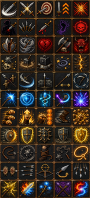
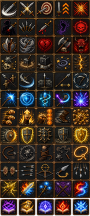
Mage talent rework for the tome; Battlemage talents for the ray and aura; tome skills: Spell Weaving, Quickened Cast, Arcane Mastery
Claude-Session: https://claude.ai/code/session_01JDuagXZUm92QiRxDizBnyo

diff --git a/core/src/main/java/com/shatteredpixel/shatteredpixeldungeon/items/weapon/melee/MagicTome.java b/core/src/main/java/com/shatteredpixel/shatteredpixeldungeon/items/weapon/melee/MagicTome.java
@@ -218,24 +218,24 @@ public class MagicTome extends MeleeWeapon {
 			ArrayList<Spell> unlearned = new ArrayList<>();
 			for (Spell s : LEARNABLE) if (main.ranks[s.ordinal()] == 0) unlearned.add(s);
 			ArrayList<Spell> upgradable = new ArrayList<>();
-			for (Spell s : Spell.values()) if (main.ranks[s.ordinal()] > 0 && main.ranks[s.ordinal()] < MAX_RANK) upgradable.add(s);
+			for (Spell s : Spell.values()) if (!s.battlemage() && main.ranks[s.ordinal()] > 0 && main.ranks[s.ordinal()] < MAX_RANK) upgradable.add(s);
 			if (unlearned.isEmpty() && upgradable.isEmpty()) {
 				GLog.w(Messages.get(MagicTome.class, "decipher_nothing"));
 				return;
 			}
 			detach(hero.belongings.backpack);
-			if (!unlearned.isEmpty() && (upgradable.isEmpty() || Random.Int(2) == 0)) {
-				Spell s = Random.element(unlearned);
-				main.ranks[s.ordinal()] = 1;
-				GLog.p(Messages.get(MagicTome.class, "learned", s.title()));
-			} else {
-				Spell s = Random.element(upgradable);
-				main.ranks[s.ordinal()]++;
-				GLog.p(Messages.get(MagicTome.class, "improved", s.title(), main.ranks[s.ordinal()]));
+			main.learnOrImprove(unlearned, upgradable);
+			//tome binding: 50% / 100% chance the spare tome teaches a second lesson
+			if (hero.pointsInTalent(Talent.WAND_PRESERVATION) > 0 && Random.Int(2) < hero.pointsInTalent(Talent.WAND_PRESERVATION)) {
+				unlearned.clear(); upgradable.clear();
+				for (Spell s : LEARNABLE) if (main.ranks[s.ordinal()] == 0) unlearned.add(s);
+				for (Spell s : Spell.values()) if (!s.battlemage() && main.ranks[s.ordinal()] > 0 && main.ranks[s.ordinal()] < MAX_RANK) upgradable.add(s);
+				if (!unlearned.isEmpty() || !upgradable.isEmpty()) main.learnOrImprove(unlearned, upgradable);
 			}
 			hero.sprite.operate(hero.pos);
 			Sample.INSTANCE.play(Assets.Sounds.READ);
-			hero.spendAndNext(5f);
+			//scholar's intuition: 5 turns, 3 at +1, 1 at +2
+			hero.spendAndNext(5f - 2f * hero.pointsInTalent(Talent.SCHOLARS_INTUITION));
 		} else {
 			detach(hero.belongings.backpack);
 			Proficiency.grantLevel(hero.heroClass, Proficiency.Family.WANDS);
@@ -247,6 +247,18 @@ public class MagicTome extends MeleeWeapon {
 		updateQuickslot();
 	}
 
+	private void learnOrImprove(ArrayList<Spell> unlearned, ArrayList<Spell> upgradable){
+		if (!unlearned.isEmpty() && (upgradable.isEmpty() || Random.Int(2) == 0)) {
+			Spell s = Random.element(unlearned);
+			ranks[s.ordinal()] = 1;
+			GLog.p(Messages.get(MagicTome.class, "learned", s.title()));
+		} else {
+			Spell s = Random.element(upgradable);
+			ranks[s.ordinal()]++;
+			GLog.p(Messages.get(MagicTome.class, "improved", s.title(), ranks[s.ordinal()]));
+		}
+	}
+
 	// ---- spell numbers ----
 
 	public int rank(Spell s){
@@ -255,7 +267,11 @@ public class MagicTome extends MeleeWeapon {
 
 	//spell power: the tome's level plus extra spell ranks
 	public int power(Spell s){
-		return Math.max(0, buffedLvl()) + Math.max(0, rank(s) - 1);
+		int p = Math.max(0, buffedLvl()) + Math.max(0, rank(s) - 1);
+		//desperate power: +1 / +2 while below half health
+		Hero h = Dungeon.hero;
+		if (h != null && h.HP * 2 < h.HT) p += h.pointsInTalent(Talent.DESPERATE_POWER);
+		return p;
 	}
 
 	public float cooldownFor(Spell s){
@@ -320,7 +336,33 @@ public class MagicTome extends MeleeWeapon {
 
 	private void startCooldown(Spell s){
 		boolean refund = com.shatteredpixel.shatteredpixeldungeon.actors.hero.SkillEffects.afterTomeUsed(source(s));
+		Hero h = Dungeon.hero;
+		if (h != null) {
+			//quickened cast: this spell skips its cooldown
+			com.shatteredpixel.shatteredpixeldungeon.actors.hero.SkillEffects.QuickenedCast qc = h.buff(com.shatteredpixel.shatteredpixeldungeon.actors.hero.SkillEffects.QuickenedCast.class);
+			if (qc != null) { qc.detach(); refund = true; }
+		}
 		cooldowns[s.ordinal()] = refund ? 0 : cooldownFor(s);
+		if (h != null) {
+			//spell weaving: casting one spell hurries the others along by 1 / 2 / 3 turns
+			int weave = com.shatteredpixel.shatteredpixeldungeon.actors.hero.Proficiency.rank(h.heroClass, com.shatteredpixel.shatteredpixeldungeon.actors.hero.Skill.SPELL_WEAVING);
+			if (weave > 0) for (int i = 0; i < cooldowns.length; i++) {
+				if (i != s.ordinal() && cooldowns[i] > 0) cooldowns[i] = Math.max(0, cooldowns[i] - weave);
+			}
+			com.shatteredpixel.shatteredpixeldungeon.actors.buffs.WandEmpower emp = h.buff(com.shatteredpixel.shatteredpixeldungeon.actors.buffs.WandEmpower.class);
+			if (emp != null && --emp.left <= 0) emp.detach();
+			//lingering magic: the next tome (or any) melee hit after a spell deals bonus damage
+			if (h.hasTalent(Talent.LINGERING_MAGIC)) Buff.affect(h, Talent.LingeringMagicTracker.class, 5f);
+			//backup barrier: shielding when the last ready spell goes on cooldown
+			if (h.hasTalent(Talent.BACKUP_BARRIER)) {
+				boolean anyReady = false;
+				for (Spell o : Spell.values()) if (!o.battlemage() && rank(o) > 0 && ready(o)) anyReady = true;
+				if (!anyReady) {
+					Buff.affect(h, com.shatteredpixel.shatteredpixeldungeon.actors.buffs.Barrier.class).setShield(1 + 2 * h.pointsInTalent(Talent.BACKUP_BARRIER));
+					h.sprite.showStatusWithIcon(com.shatteredpixel.shatteredpixeldungeon.sprites.CharSprite.POSITIVE, Integer.toString(1 + 2 * h.pointsInTalent(Talent.BACKUP_BARRIER)), com.shatteredpixel.shatteredpixeldungeon.effects.FloatingText.SHIELDING);
+				}
+			}
+		}
 		updateQuickslot();
 	}
 
@@ -338,6 +380,17 @@ public class MagicTome extends MeleeWeapon {
 	}
 
 	private static int amp(Char target, int dmg, Spell s){
+		Hero h = Dungeon.hero;
+		if (h != null) {
+			//empowering meal: bonus damage on the next few spells (shared with wand zaps)
+			com.shatteredpixel.shatteredpixeldungeon.actors.buffs.WandEmpower emp = h.buff(com.shatteredpixel.shatteredpixeldungeon.actors.buffs.WandEmpower.class);
+			if (emp != null) dmg += emp.dmgBoost;
+			//arcane mastery: +5% / 10% / 15% spell damage
+			int mastery = com.shatteredpixel.shatteredpixeldungeon.actors.hero.Proficiency.rank(h.heroClass, com.shatteredpixel.shatteredpixeldungeon.actors.hero.Skill.ARCANE_MASTERY);
+			if (mastery > 0) dmg = Math.round(dmg * (1f + 0.05f * mastery));
+			//spells mark and reveal like wand bolts do (warlock soul marks, arcane vision)
+			if (target != null && target != h) com.shatteredpixel.shatteredpixeldungeon.items.wands.Wand.tomeProc(target, 1 + s.ordinal() % 3);
+		}
 		return com.shatteredpixel.shatteredpixeldungeon.actors.hero.SkillEffects.modifyTomeDamage(target, dmg, source(s));
 	}
 
@@ -538,16 +591,6 @@ public class MagicTome extends MeleeWeapon {
 
 	@Override
 	public int proc(Char attacker, Char defender, int damage) {
-		//the old staff talents carry over to the tome
-		if (attacker instanceof Hero && ((Hero) attacker).hasTalent(Talent.MYSTICAL_CHARGE)) {
-			Hero hero = (Hero) attacker;
-			ArtifactRecharge.chargeArtifacts(hero, hero.pointsInTalent(Talent.MYSTICAL_CHARGE)/2f);
-		}
-		Talent.EmpoweredStrikeTracker empoweredStrike = attacker.buff(Talent.EmpoweredStrikeTracker.class);
-		if (empoweredStrike != null) {
-			damage = Math.round(damage * (1f + Dungeon.hero.pointsInTalent(Talent.EMPOWERED_STRIKE)/6f));
-			if (!empoweredStrike.delayedDetach) empoweredStrike.detach();
-		}
 		return super.proc(attacker, defender, damage);
 	}
 
@@ -678,8 +721,9 @@ public class MagicTome extends MeleeWeapon {
 		}
 
 		public int percent(){
-			//3% of max health per turn, +1% per rank (up to 6%)
-			return 2 + Math.min(4, 1 + power / 2);
+			//3% of max health per turn, +1% per 2 power (up to 6%), +1% per point of excess charge
+			int excess = target instanceof Hero ? ((Hero) target).pointsInTalent(Talent.EXCESS_CHARGE) : 0;
+			return 2 + Math.min(4, 1 + power / 2) + excess;
 		}
 
 		@Override

diff --git a/core/src/main/java/com/shatteredpixel/shatteredpixeldungeon/actors/hero/Talent.java b/core/src/main/java/com/shatteredpixel/shatteredpixeldungeon/actors/hero/Talent.java
@@ -608,6 +608,10 @@ public enum Talent {
 		if (hero.hasTalent(ENERGIZING_MEAL)){
 			//5/8 turns of recharging
 			wandChargeTurns += 2 + 3*hero.pointsInTalent(ENERGIZING_MEAL);
+			//MOD: and the held tome's spells come back 4/7 turns sooner
+			if (hero.belongings.weapon() instanceof com.shatteredpixel.shatteredpixeldungeon.items.weapon.melee.MagicTome) {
+				((com.shatteredpixel.shatteredpixeldungeon.items.weapon.melee.MagicTome) hero.belongings.weapon()).tick(1 + 3*hero.pointsInTalent(ENERGIZING_MEAL));
+			}
 		}
 		int artifactChargeTurns = 0;
 		if (hero.hasTalent(MYSTICAL_MEAL)){
@@ -764,6 +768,10 @@ public enum Talent {
 		if (hero.hasTalent(INSCRIBED_POWER)){
 			// 2/3 empowered wand zaps
 			Buff.affect(hero, ScrollEmpower.class).reset((int) (factor * (1 + hero.pointsInTalent(INSCRIBED_POWER))));
+			//MOD: and the held tome's spells come back 3/5 turns sooner
+			if (hero.belongings.weapon() instanceof com.shatteredpixel.shatteredpixeldungeon.items.weapon.melee.MagicTome) {
+				((com.shatteredpixel.shatteredpixeldungeon.items.weapon.melee.MagicTome) hero.belongings.weapon()).tick(factor * (1 + 2*hero.pointsInTalent(INSCRIBED_POWER)));
+			}
 		}
 		if (hero.hasTalent(INSCRIBED_STEALTH)){
 			// 3/5 turns of stealth
@@ -867,6 +875,19 @@ public enum Talent {
 	}
 
 	public static int onAttackProc( Hero hero, Char enemy, int dmg ){
+
+		//MOD: battlemage. Empowered strike: the first melee hit after the disintegration ray deals
+		//+25/50/75%. Mystical charge: melee hits bring the ray back 1/2/3 turns sooner
+		if (hero.subClass == HeroSubClass.BATTLEMAGE) {
+			EmpoweredStrikeTracker es = hero.buff(EmpoweredStrikeTracker.class);
+			if (es != null && hero.hasTalent(EMPOWERED_STRIKE)) {
+				dmg = Math.round(dmg * (1f + hero.pointsInTalent(EMPOWERED_STRIKE) / 4f));
+				es.detach();
+			}
+			com.shatteredpixel.shatteredpixeldungeon.actors.buffs.DisintegrationRay ray =
+					hero.buff(com.shatteredpixel.shatteredpixeldungeon.actors.buffs.DisintegrationRay.class);
+			if (ray != null && hero.hasTalent(MYSTICAL_CHARGE)) ray.recharge(hero.pointsInTalent(MYSTICAL_CHARGE));
+		}
 
 		if (hero.hasTalent(Talent.PROVOKED_ANGER)
 			&& hero.buff(ProvokedAngerTracker.class) != null){

diff --git a/core/src/main/java/com/shatteredpixel/shatteredpixeldungeon/actors/buffs/DisintegrationRay.java b/core/src/main/java/com/shatteredpixel/shatteredpixeldungeon/actors/buffs/DisintegrationRay.java
@@ -107,6 +107,15 @@ public class DisintegrationRay extends Buff implements ActionIndicator.Action {
 		return true;
 	}
 
+	public void recharge( float turns ){
+		if (cooldown <= 0) return;
+		cooldown -= turns;
+		if (cooldown <= 0) {
+			cooldown = 0;
+			ActionIndicator.setAction( this );
+		}
+	}
+
 	// ---- the ability button ----
 
 	@Override
@@ -170,12 +179,21 @@ public class DisintegrationRay extends Buff implements ActionIndicator.Action {
 				if (ch.sprite != null) ch.sprite.emitter().burst( PurpleParticle.BURST, 25 );
 				GLog.p( Messages.get( DisintegrationRay.class, "disintegrated", ch.name() ) );
 				ch.die( this );
+				//excess charge: the released energy shields the battlemage, 4 / 8 / 12
+				if (hero.hasTalent( com.shatteredpixel.shatteredpixeldungeon.actors.hero.Talent.EXCESS_CHARGE )) {
+					int sh = 4 * hero.pointsInTalent( com.shatteredpixel.shatteredpixeldungeon.actors.hero.Talent.EXCESS_CHARGE );
+					Buff.affect( hero, Barrier.class ).incShield( sh );
+					hero.sprite.showStatusWithIcon( com.shatteredpixel.shatteredpixeldungeon.sprites.CharSprite.POSITIVE, Integer.toString( sh ), com.shatteredpixel.shatteredpixeldungeon.effects.FloatingText.SHIELDING );
+				}
 			} else {
 				ch.damage( Random.NormalIntRange( minDamage( hero ), maxDamage( hero ) ), this );
 				if (ch.sprite != null) ch.sprite.centerEmitter().burst( PurpleParticle.BURST, 10 );
 			}
 		}
 		Dungeon.observe();
+		if (hero.hasTalent( com.shatteredpixel.shatteredpixeldungeon.actors.hero.Talent.EMPOWERED_STRIKE )) {
+			Buff.affect( hero, com.shatteredpixel.shatteredpixeldungeon.actors.hero.Talent.EmpoweredStrikeTracker.class, 10f );
+		}
 		cooldown = COOLDOWN;
 		ActionIndicator.clearAction( this );
 		hero.spendAndNext( 1f );

diff --git a/core/src/main/java/com/shatteredpixel/shatteredpixeldungeon/actors/hero/Skill.java b/core/src/main/java/com/shatteredpixel/shatteredpixeldungeon/actors/hero/Skill.java
@@ -103,7 +103,12 @@ public enum Skill {
 	ELEMENTAL_INFUSION(Family.WANDS,   Kind.ACTIVE,   true, 30, 27, 24),
 	ATTUNEMENT       (Family.WANDS,    Kind.PASSIVE,  true),
 	RESONANCE        (Family.WANDS,    Kind.PASSIVE,  true),
-	SPELL_FUSION     (Family.WANDS,    Kind.ULTIMATE, true, 60);
+	SPELL_FUSION     (Family.WANDS,    Kind.ULTIMATE, true, 60),
+
+	//MOD: tome skills (magic family, added after the original set so the icon rows stay in order)
+	SPELL_WEAVING    (Family.WANDS,    Kind.PASSIVE,  true),
+	QUICKENED_CAST   (Family.WANDS,    Kind.ACTIVE,   true, 40, 35, 30),
+	ARCANE_MASTERY   (Family.WANDS,    Kind.PASSIVE,  true);
 
 	public enum Kind { ACTIVE, PASSIVE, ULTIMATE }
 
@@ -153,7 +158,9 @@ public enum Skill {
 
 	public static ArrayList<Skill> of(Family f) {
 		ArrayList<Skill> list = new ArrayList<>();
-		for (Skill s : values()) if (s.family == f) list.add(s);
+		for (Skill s : values()) if (s.family == f && s.kind != Kind.ULTIMATE) list.add(s);
+		//the ultimate always comes last
+		for (Skill s : values()) if (s.family == f && s.kind == Kind.ULTIMATE) list.add(s);
 		return list;
 	}
 }

diff --git a/core/src/main/java/com/shatteredpixel/shatteredpixeldungeon/actors/hero/SkillEffects.java b/core/src/main/java/com/shatteredpixel/shatteredpixeldungeon/actors/hero/SkillEffects.java
@@ -395,6 +395,12 @@ public class SkillEffects {
 				Sample.INSTANCE.play(Assets.Sounds.CHARGEUP);
 				finish(hero, s, rank, 1f);
 				break;
+			case QUICKENED_CAST:
+				Buff.affect(hero, QuickenedCast.class);
+				hero.sprite.showStatus(CharSprite.POSITIVE, s.title());
+				Sample.INSTANCE.play(Assets.Sounds.CHARGEUP);
+				finish(hero, s, rank, 0f);
+				break;
 			case ELEMENTAL_INFUSION:
 				Buff.affect(hero, Infusion.class, 8f).rank = rank;
 				hero.sprite.showStatus(CharSprite.POSITIVE, s.title());
@@ -931,6 +937,13 @@ public class SkillEffects {
 			any = true;
 		}
 		if (any) Dungeon.observe();
+	}
+
+	//MOD: the next tome spell skips its cooldown
+	public static class QuickenedCast extends Buff {
+		{ type = buffType.POSITIVE; }
+		@Override public int icon() { return com.shatteredpixel.shatteredpixeldungeon.ui.BuffIndicator.TIME; }
+		@Override public void tintIcon(com.watabou.noosa.Image icon) { icon.hardlight(1f, 0.8f, 0.2f); }
 	}
 
 	public static class LastWand extends Buff {

diff --git a/core/src/main/java/com/shatteredpixel/shatteredpixeldungeon/items/wands/Wand.java b/core/src/main/java/com/shatteredpixel/shatteredpixeldungeon/items/wands/Wand.java
@@ -206,6 +206,11 @@ public abstract class Wand extends Item {
 		wandProc(target, buffedLvl(), chargesUsed);
 	}
 
+	//MOD: magic tome spells trigger the same on-hit effects as a wand bolt
+	public static void tomeProc(Char target, int level){
+		wandProc(target, level, 1);
+	}
+
 	//TODO Consider externalizing char awareness buff
 	protected static void wandProc(Char target, int wandLevel, int chargesUsed){
 		if (Dungeon.hero.hasTalent(Talent.ARCANE_VISION)) {
